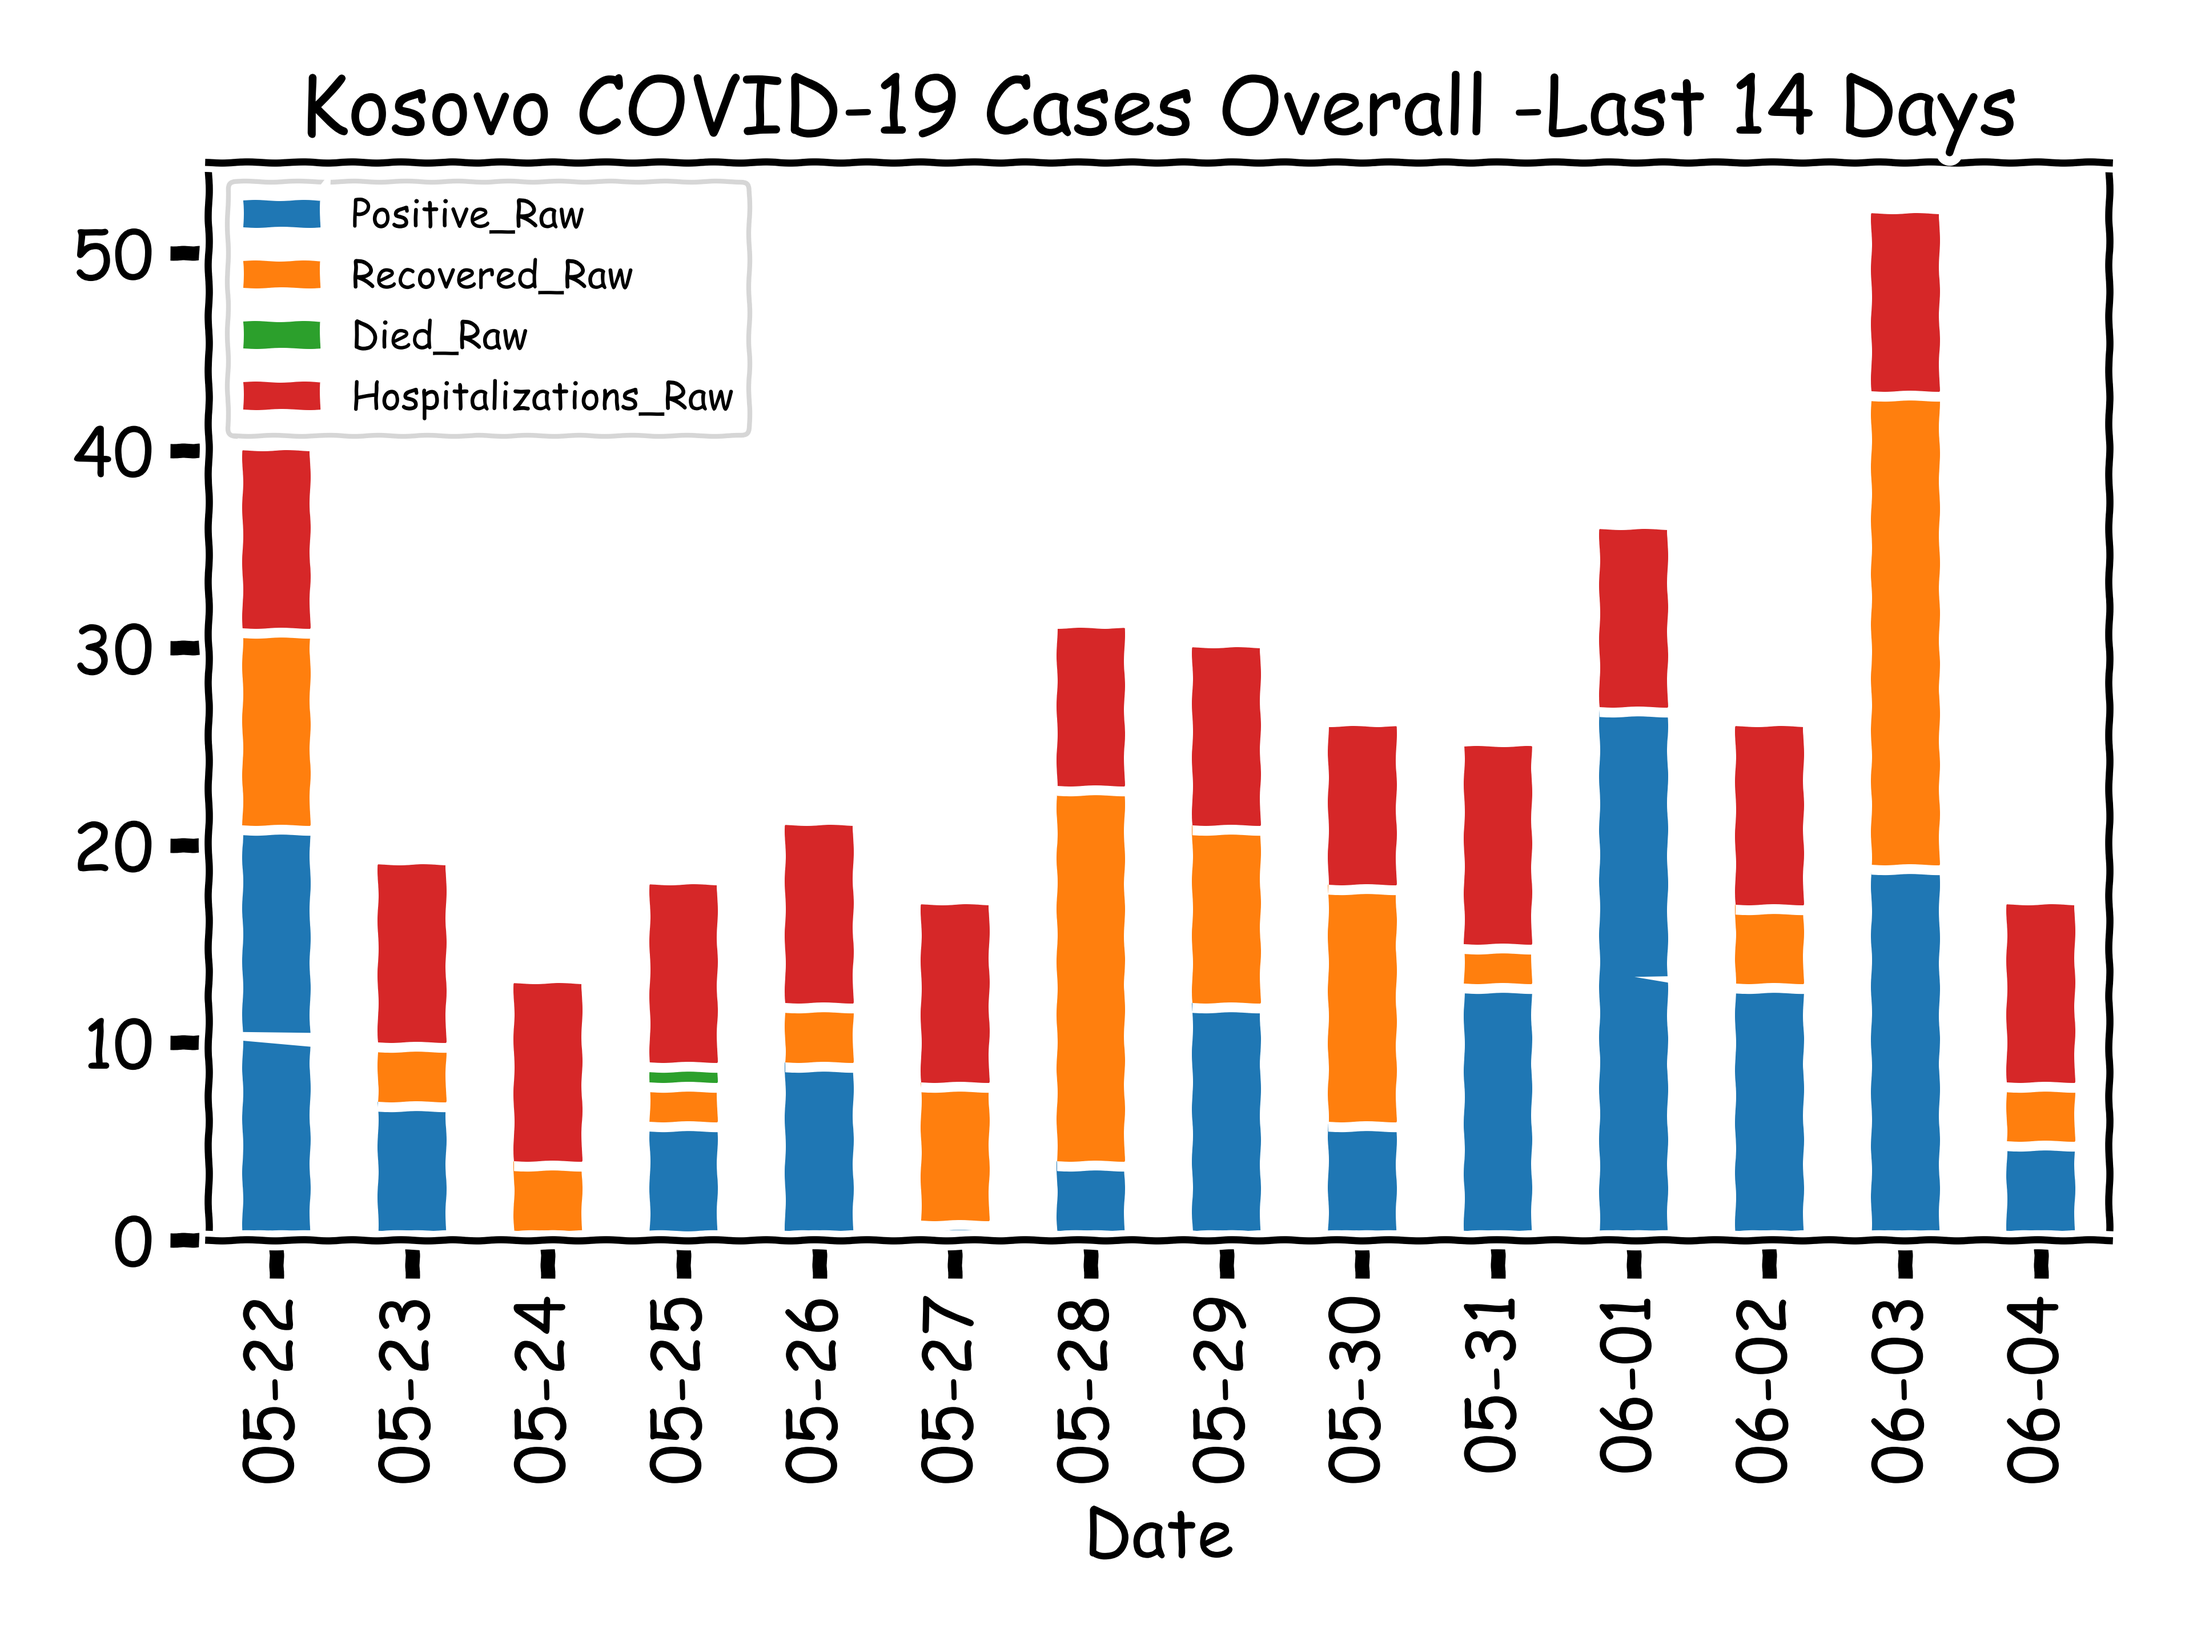
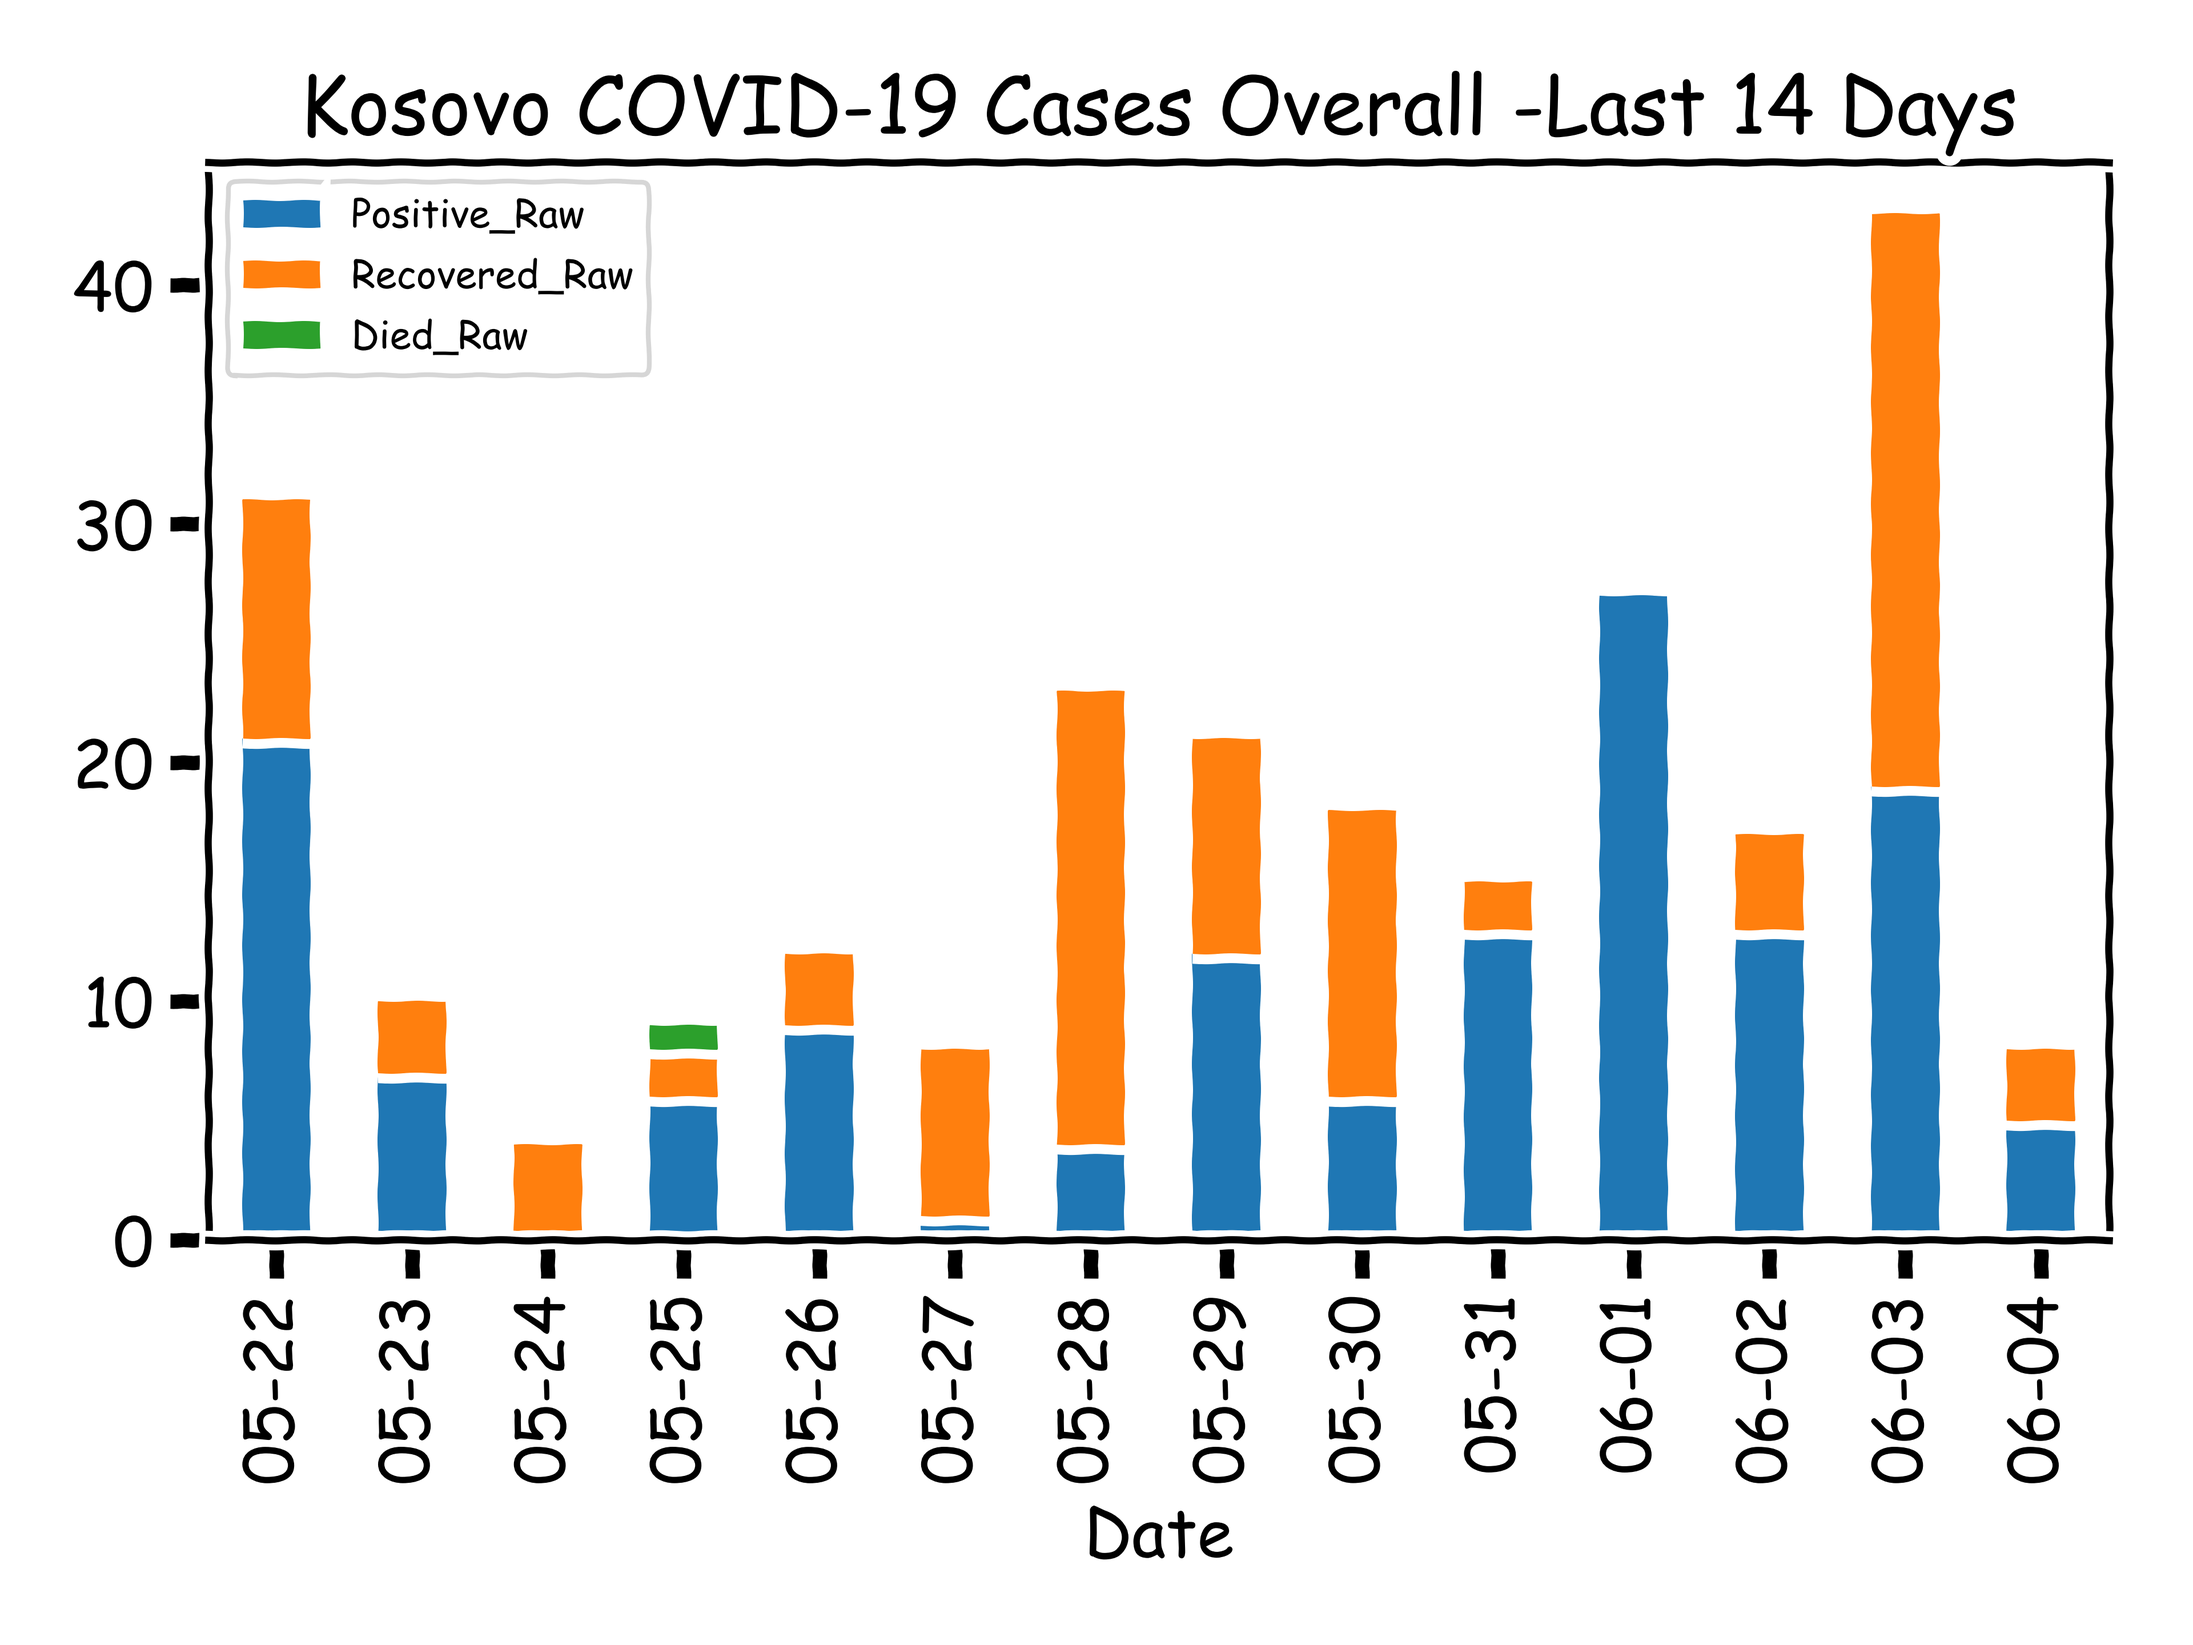
Changed

diff --git a/covid.py b/covid.py
@@ -189,7 +189,7 @@ with plt.xkcd():
     deltaFig.figure.tight_layout()
     deltaFig.figure.savefig('Kosovo COVID-19 Cases Overall -Last 14 Days Bar.png', dpi=600)
 
-    CPDelta_df = COVID_Raw[['Positive_Raw', 'Recovered_Raw', 'Died_Raw', 'Hospitalizations_Raw']]
+    CPDelta_df = COVID_Raw[['Positive_Raw', 'Recovered_Raw', 'Died_Raw']]
     ticks = CPDelta_df.last('14D').index.strftime('%m-%d').values
     deltaFig = CPDelta_df.last('14D').plot.bar(stacked=True, title='Kosovo COVID-19 Cases Overall -Last 14 Days')
     deltaFig.legend(fontsize='xx-small')
@@ -198,7 +198,7 @@ with plt.xkcd():
     deltaFig.figure.tight_layout()
     deltaFig.figure.savefig('Kosovo COVID-19 Cases Overall -L14 Days Stacked Bar.png', dpi=600)
 
-    CPDelta_df = COVID_Raw[['Positive_Raw', 'Recovered_Raw', 'Died_Raw', 'Hospitalizations_Raw']]
+    CPDelta_df = COVID_Raw[['Positive_Raw', 'Recovered_Raw', 'Died_Raw']]
     deltaFig = CPDelta_df.last('14D').plot.area(stacked=True, title='Kosovo COVID-19 Cases Overall -Last 14 Days')
     deltaFig.legend(fontsize='xx-small')
     deltaFig.xaxis.set_major_formatter(tickFormatter)
